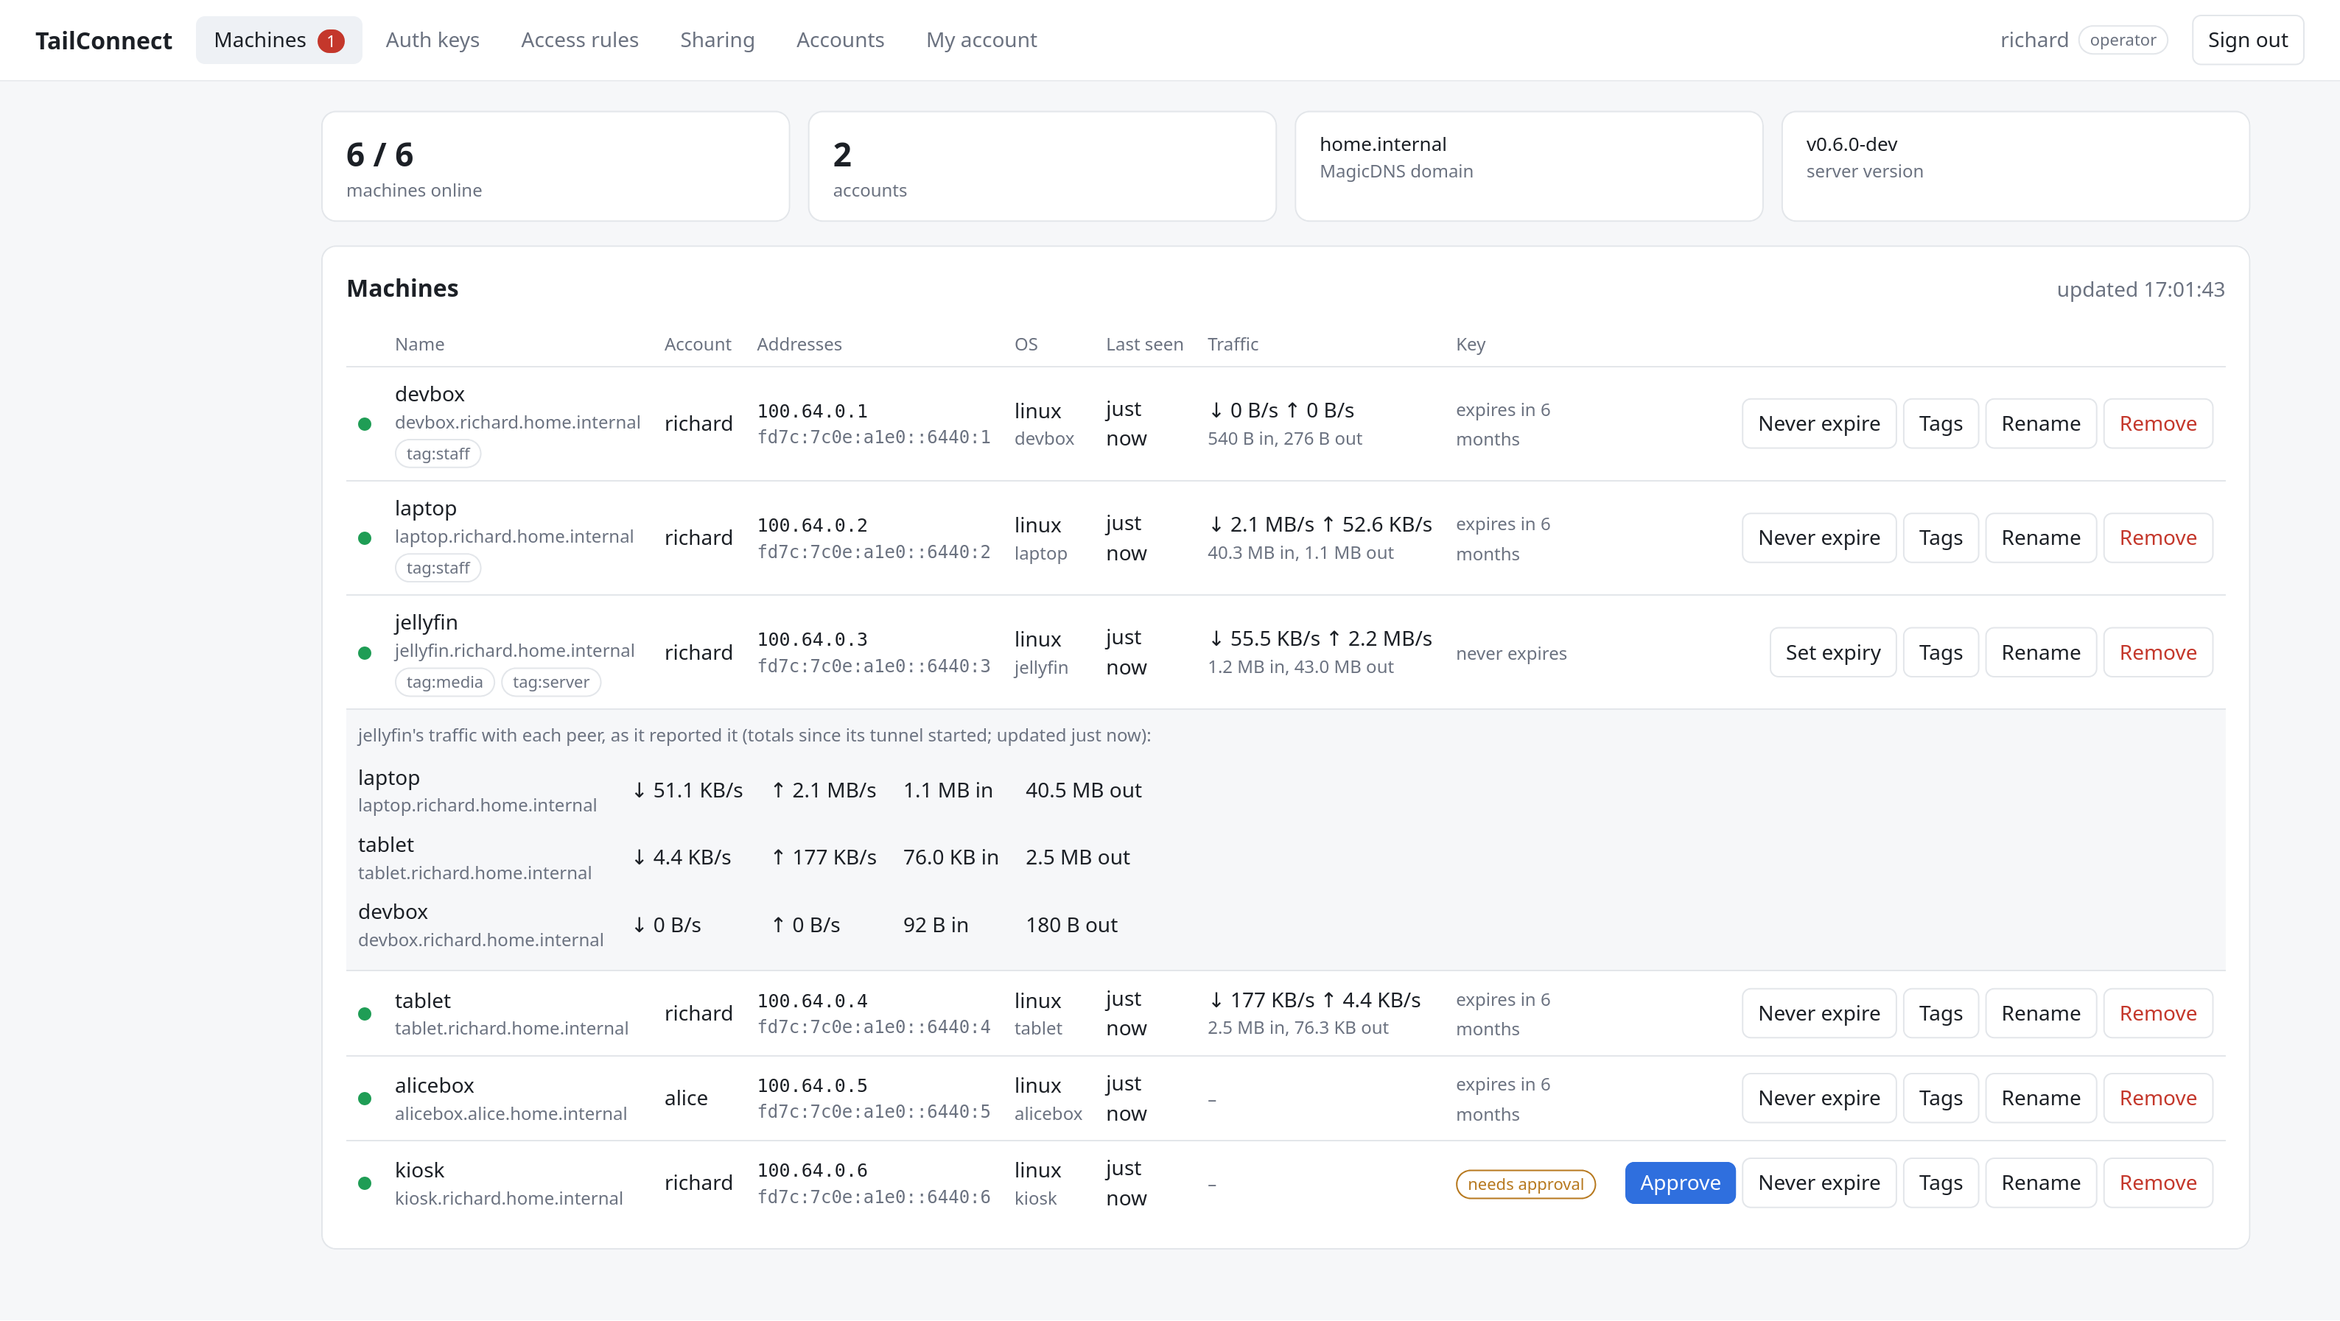
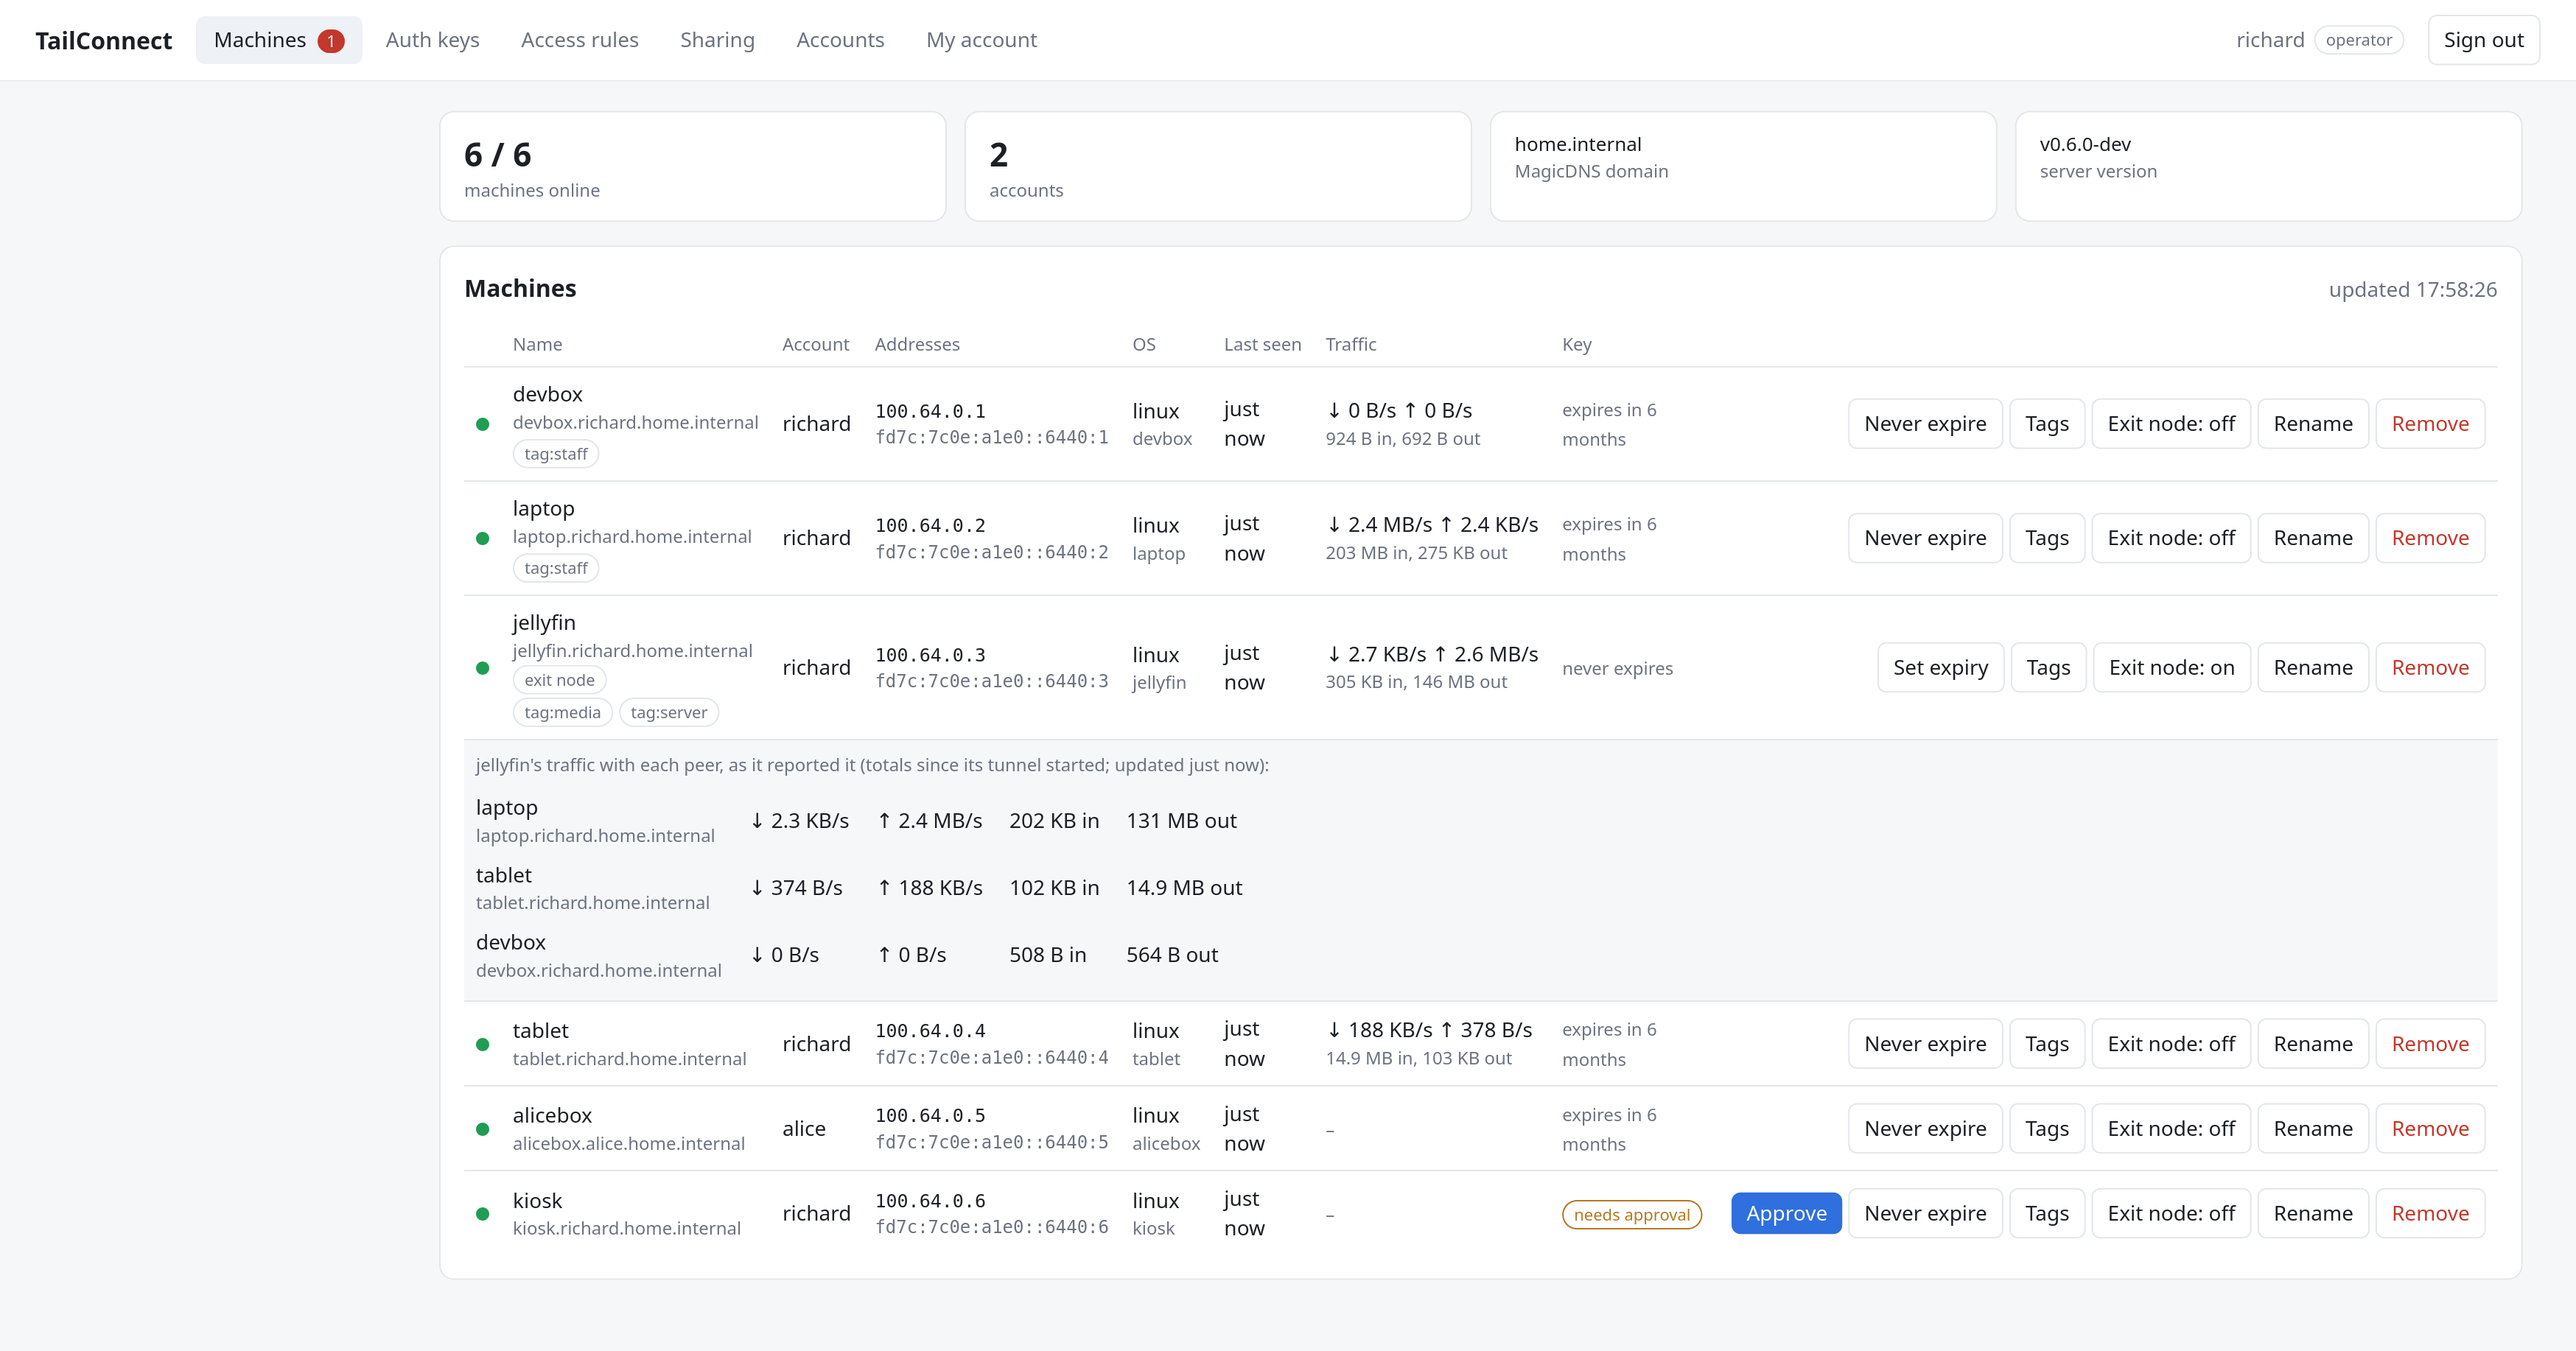
Updated readme

diff --git a/docs/portal.md b/docs/portal.md
@@ -2,7 +2,7 @@
 
 The portal is where you manage the network in a browser: machines, auth keys, access rules, sharing and, for operators, accounts. Everything in it can also be done with the [admin CLI](usage.md#admin-cli) or the [HTTP API](usage.md#admin-http-api).
 
-![Operator view of the Machines tab: six machines in two accounts, one waiting for approval](images/portal-machines.png)
+![Operator view of the Machines tab: six machines in two accounts, jellyfin an exit node, one waiting for approval](images/portal-machines.png)
 
 - [Open the portal](#open-the-portal)
 - [Sign in and sign up](#sign-in-and-sign-up)
@@ -93,7 +93,7 @@ The cards along the top show machines online, accounts, machines waiting for app
 
 Click a machine's traffic to see whom it exchanges data with: the speed in each direction, and the totals, per peer.
 
-![Machines tab with jellyfin's traffic opened: 2.1 MB/s up to the laptop, 177 KB/s to the tablet](images/portal-traffic.png)
+![Machines tab with jellyfin's traffic opened: 2.4 MB/s up to the laptop, 188 KB/s to the tablet](images/portal-traffic.png)
 
 How the numbers come about:
 - **Machines report them.** Traffic between your devices goes directly from one to the other, or through a relay, so the server never sees most of it. Every machine counts the bytes it exchanges with each peer, as `tc status` shows. It sends the counts to the server every 30 seconds while they change, over its encrypted control connection.

diff --git a/README.md b/README.md
@@ -16,7 +16,7 @@ Windows is next (see [Roadmap](#roadmap)).
 
 <picture>
   <source media="(prefers-color-scheme: dark)" srcset="docs/images/portal-machines-dark.png">
-  <img alt="Web portal, operator view: six machines online across two accounts, one waiting for approval" src="docs/images/portal-machines.png">
+  <img alt="Web portal, operator view: six machines online across two accounts, jellyfin an exit node, one waiting for approval" src="docs/images/portal-machines.png">
 </picture>
 
 <sub>The terminal images come from a real test network: a Raspberry Pi running the server and Linux machines on a home LAN, one of them behind NAT, across two accounts (`richard` and `alice`). The portal screenshots come from a demo network with the same accounts and machine names. The Android screenshot comes from a real tablet on the test network. Use your own addresses in place of `192.168.10.x`. Secrets are masked.</sub>

diff --git a/QUICKSTART.md b/QUICKSTART.md
@@ -118,7 +118,7 @@ Open **http://SERVER:7741** (or **https://vpn.example.com:7741** with HTTPS) in 
 
 If you chose to keep the portal on the server only, tunnel to it from your computer instead: `ssh -L 7741:127.0.0.1:7741 you@SERVER`, then open http://localhost:7741.
 
-![Web portal, Machines tab: six machines in two accounts, one waiting for approval](docs/images/portal-machines.png)
+![Web portal, Machines tab: six machines in two accounts, jellyfin an exit node, one waiting for approval](docs/images/portal-machines.png)
 
 Here you manage machines, auth keys, access rules, sharing and accounts. [The web portal](docs/portal.md) explains every tab and setting.
 

diff --git a/docs/usage.md b/docs/usage.md
@@ -188,7 +188,7 @@ Details:
 
 The portal is where you manage the network in a browser, at port 7741 on the server: for example `http://192.168.1.10:7741`, or `https://vpn.example.com:7741` with HTTPS.
 
-![Operator view of the Machines tab: six machines in two accounts, one waiting for approval](images/portal-machines.png)
+![Operator view of the Machines tab: six machines in two accounts, jellyfin an exit node, one waiting for approval](images/portal-machines.png)
 
 | Tab | For |
 |---|---|
